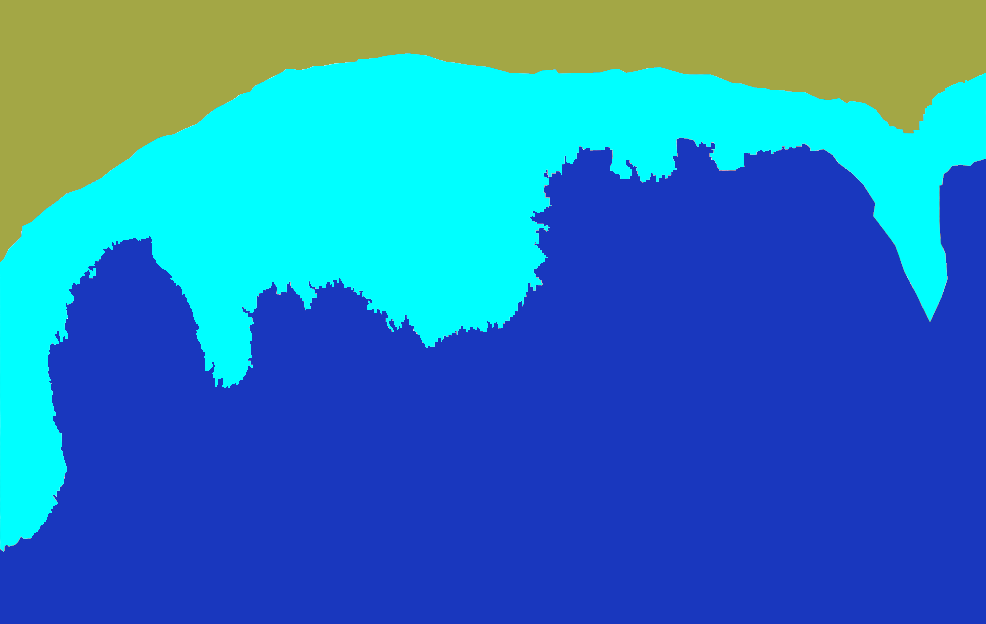
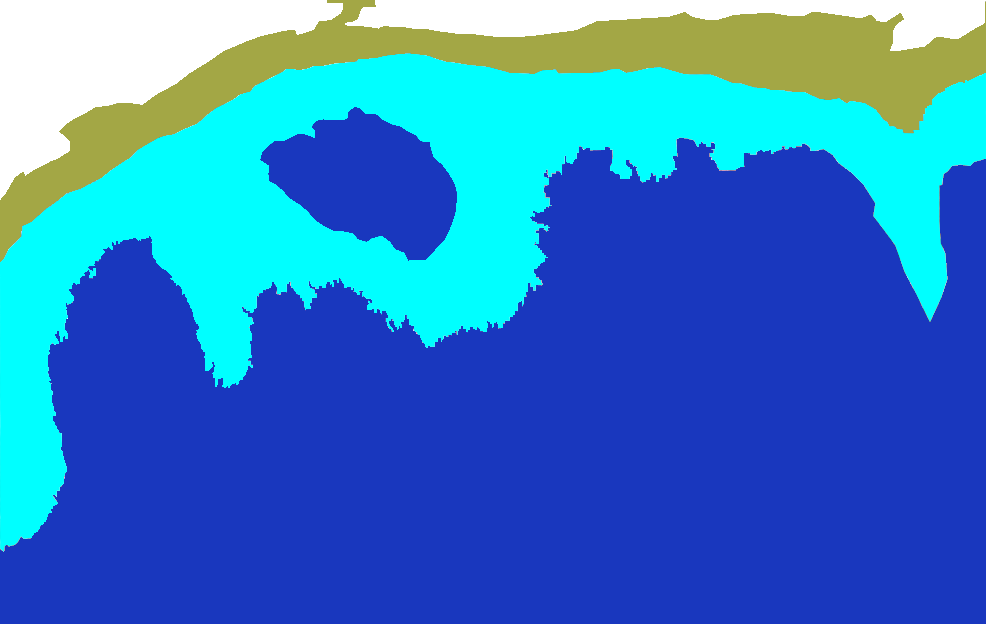
correzione bug e generazione nuove immagini

Changed region(s): [[0.0, 0.0, 1.0, 0.3045], [0.2434, 0.1522, 0.4868, 0.4263]]

diff --git a/core.py b/core.py
@@ -98,9 +98,9 @@ def make_mask_by_color(color, image):
     mask_b = image[:, :, 2] == b_color # punti con mia comp blu
     
     # creo la maschera per i punti in cui ho True per tutte le maschere delle componenti colore
-    mask = mask_r[:, :] == mask_g[:, :]
-    mask = mask[:, :] == mask_b[:, :]
- 
+    mask = np.logical_and(mask_r, mask_g)
+    mask = np.logical_and(mask, mask_b)
+
     return mask
  
 def split_image_by_color(mask, img):
@@ -172,6 +172,7 @@ def main():
     # Definisco un dizionario dei colori presenti nell'immagine colorate con etichette per le rispettive 
     # sezioni.
     dictColori = {
+        "ffffff": "vetrino",
         "a3a745": "strato_corneo",
         "00ffff": "epidermide",
         "1937be": "derma"
